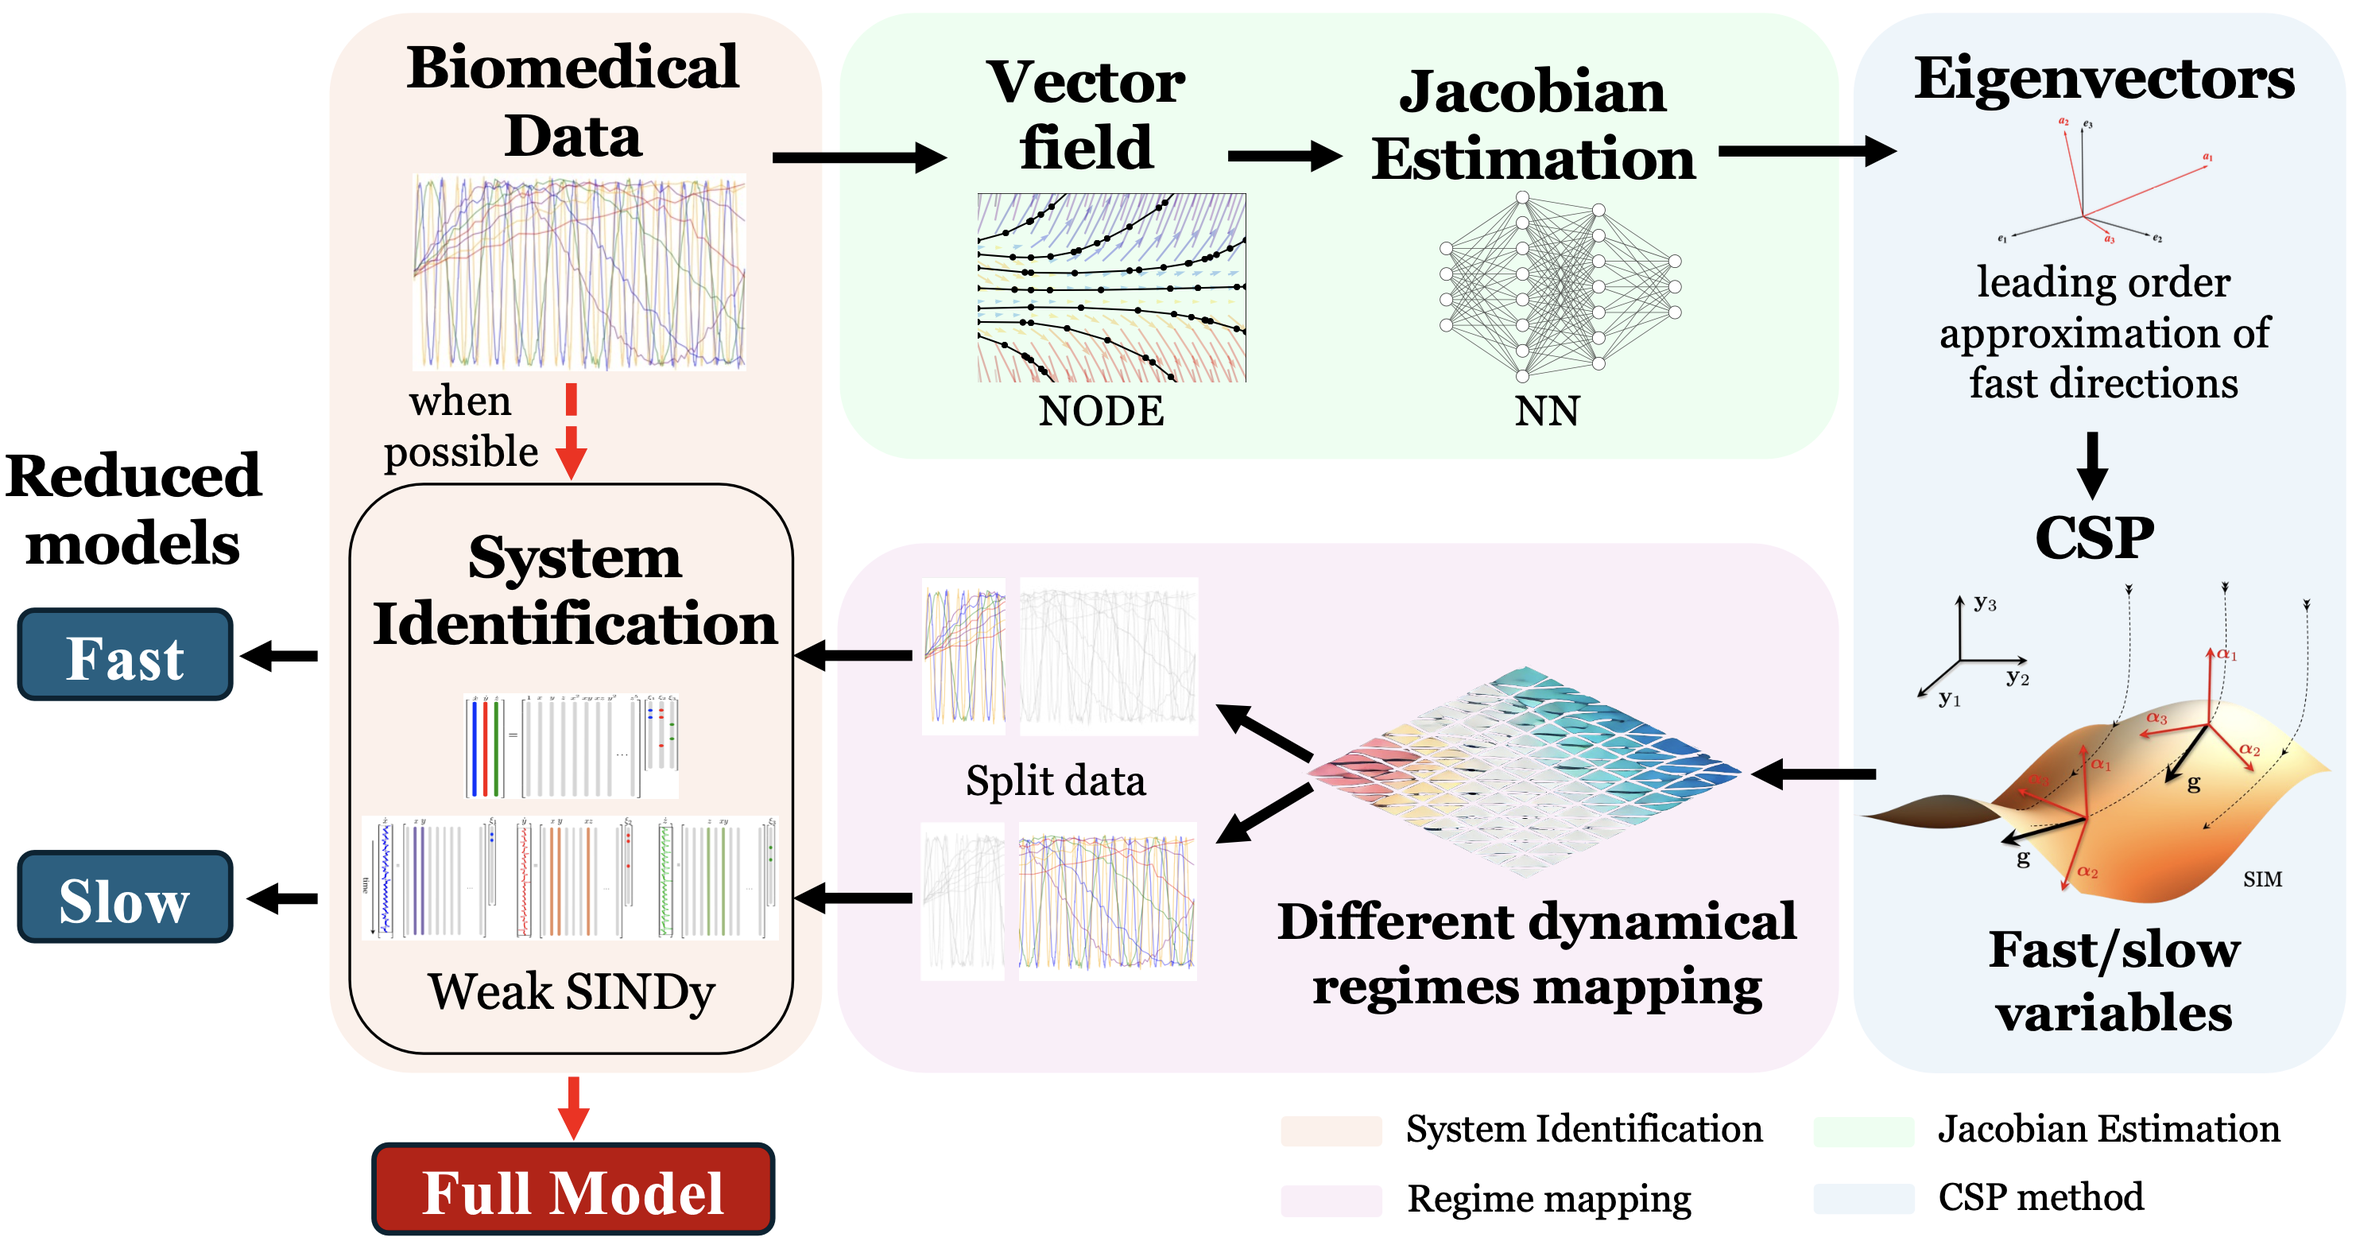
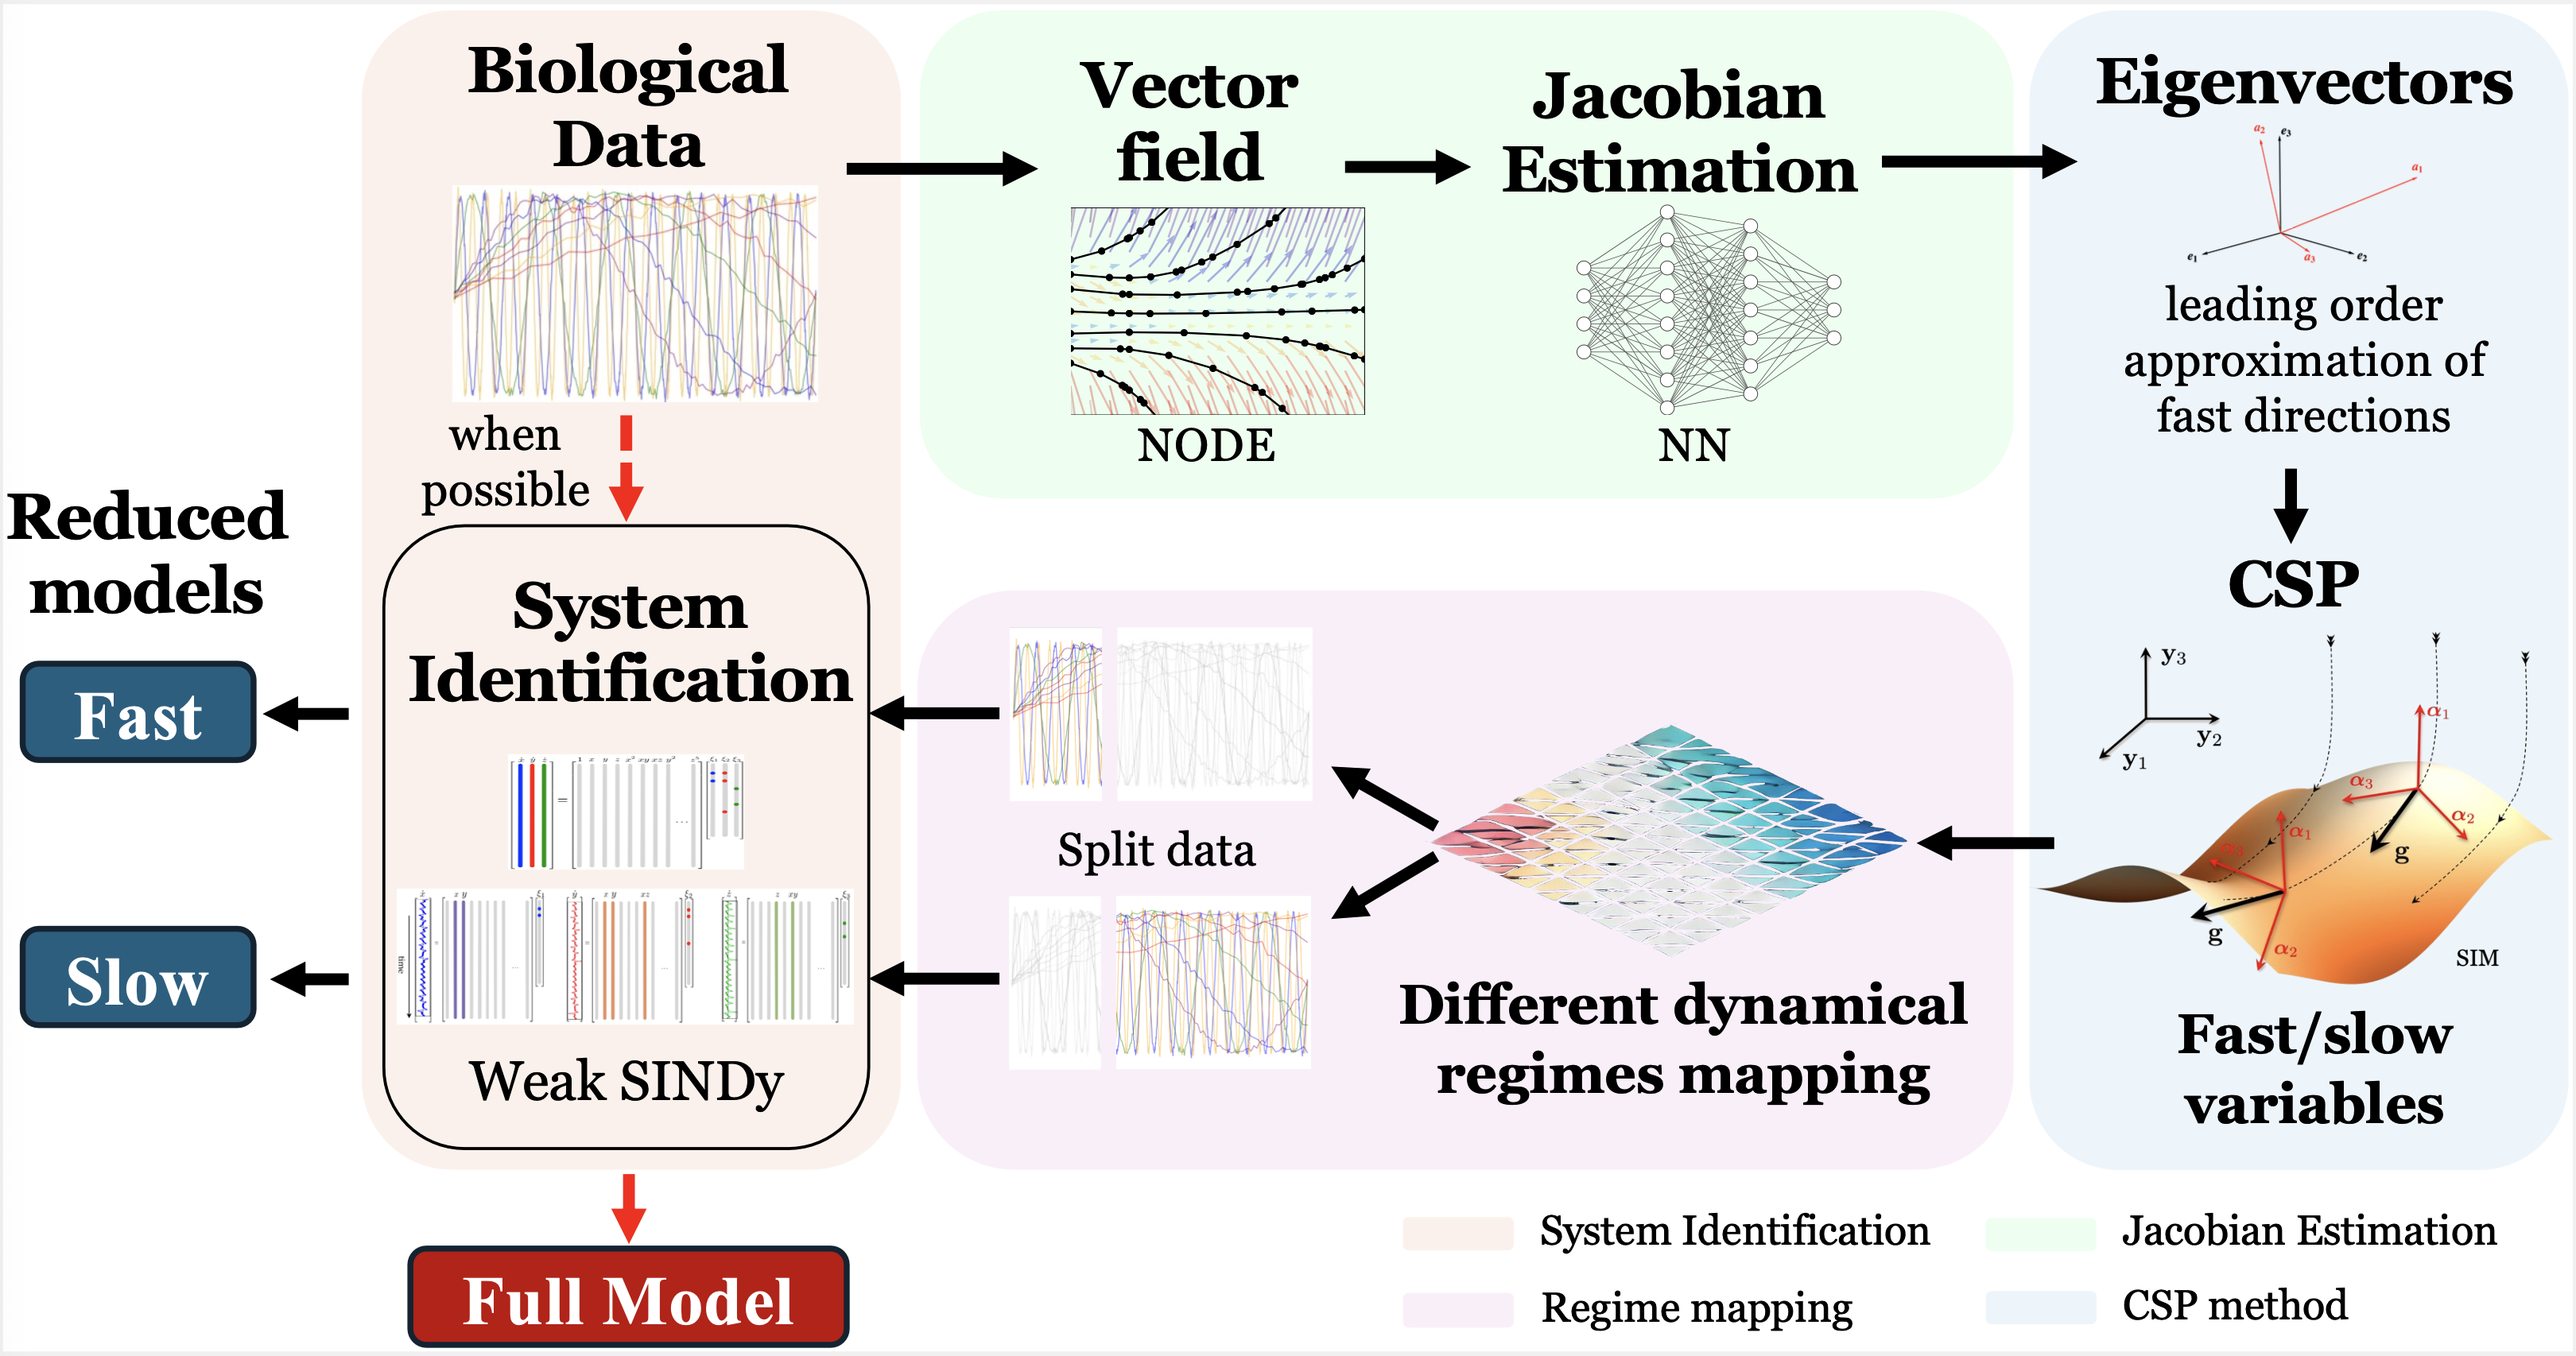
updated the title to biological

diff --git a/README.md b/README.md
@@ -1,7 +1,7 @@
-## Data-driven identification of biomedical systems using multi-scale analysis Python Toolkit
+## Data-driven identification of biological systems using multi-scale analysis Python Toolkit
 
 
-This repository contains the code used to generate the results presented in [*Data-driven identification of biomedical systems using multi-scale analysis*](https://www.biorxiv.org/content/10.1101/2025.06.05.657989v1). The toolkit integrates methods for sparse system identification (Weak SINDy), multi-scale decomposition (CSP), Jacobian estimation via neural networks, Neural ODEs, and classical reduced-model evaluation (PEA).
+This repository contains the code used to generate the results presented in [*Data-driven identification of biological systems using multi-scale analysis*](https://www.biorxiv.org/content/10.1101/2025.06.05.657989v1). The toolkit integrates methods for sparse system identification (Weak SINDy), multi-scale decomposition (CSP), Jacobian estimation via neural networks, Neural ODEs, and classical reduced-model evaluation (PEA).
 
 <p align="center">
   <img src="Methodology/Methodology.png" width="90%"><br>
